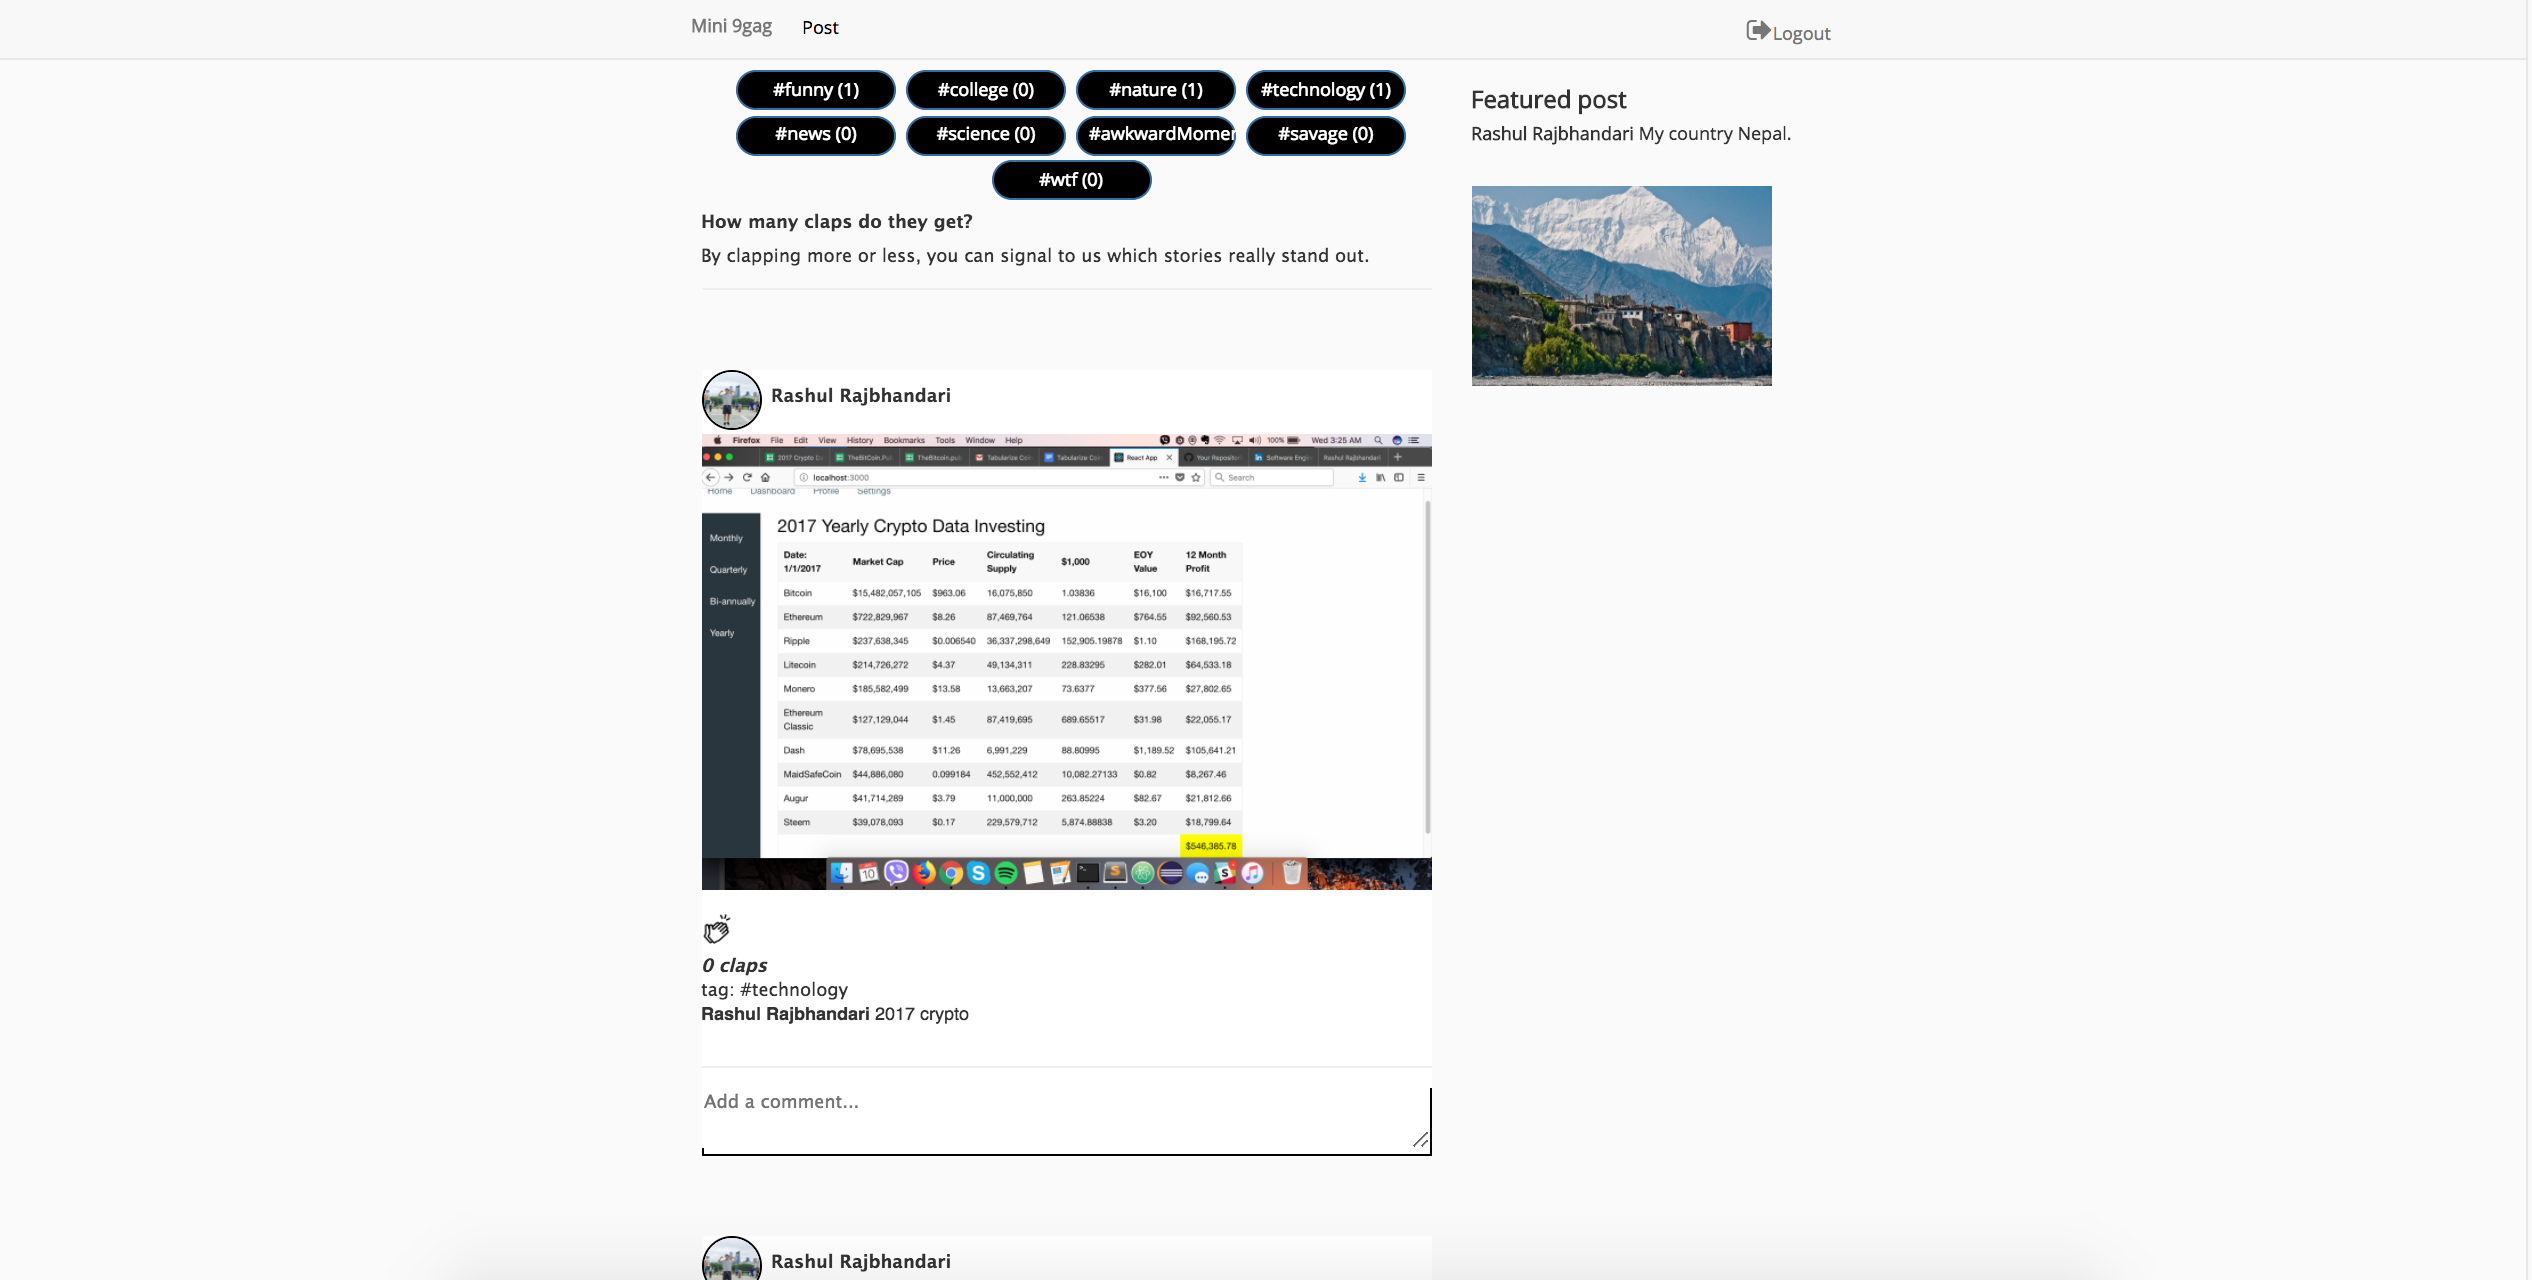
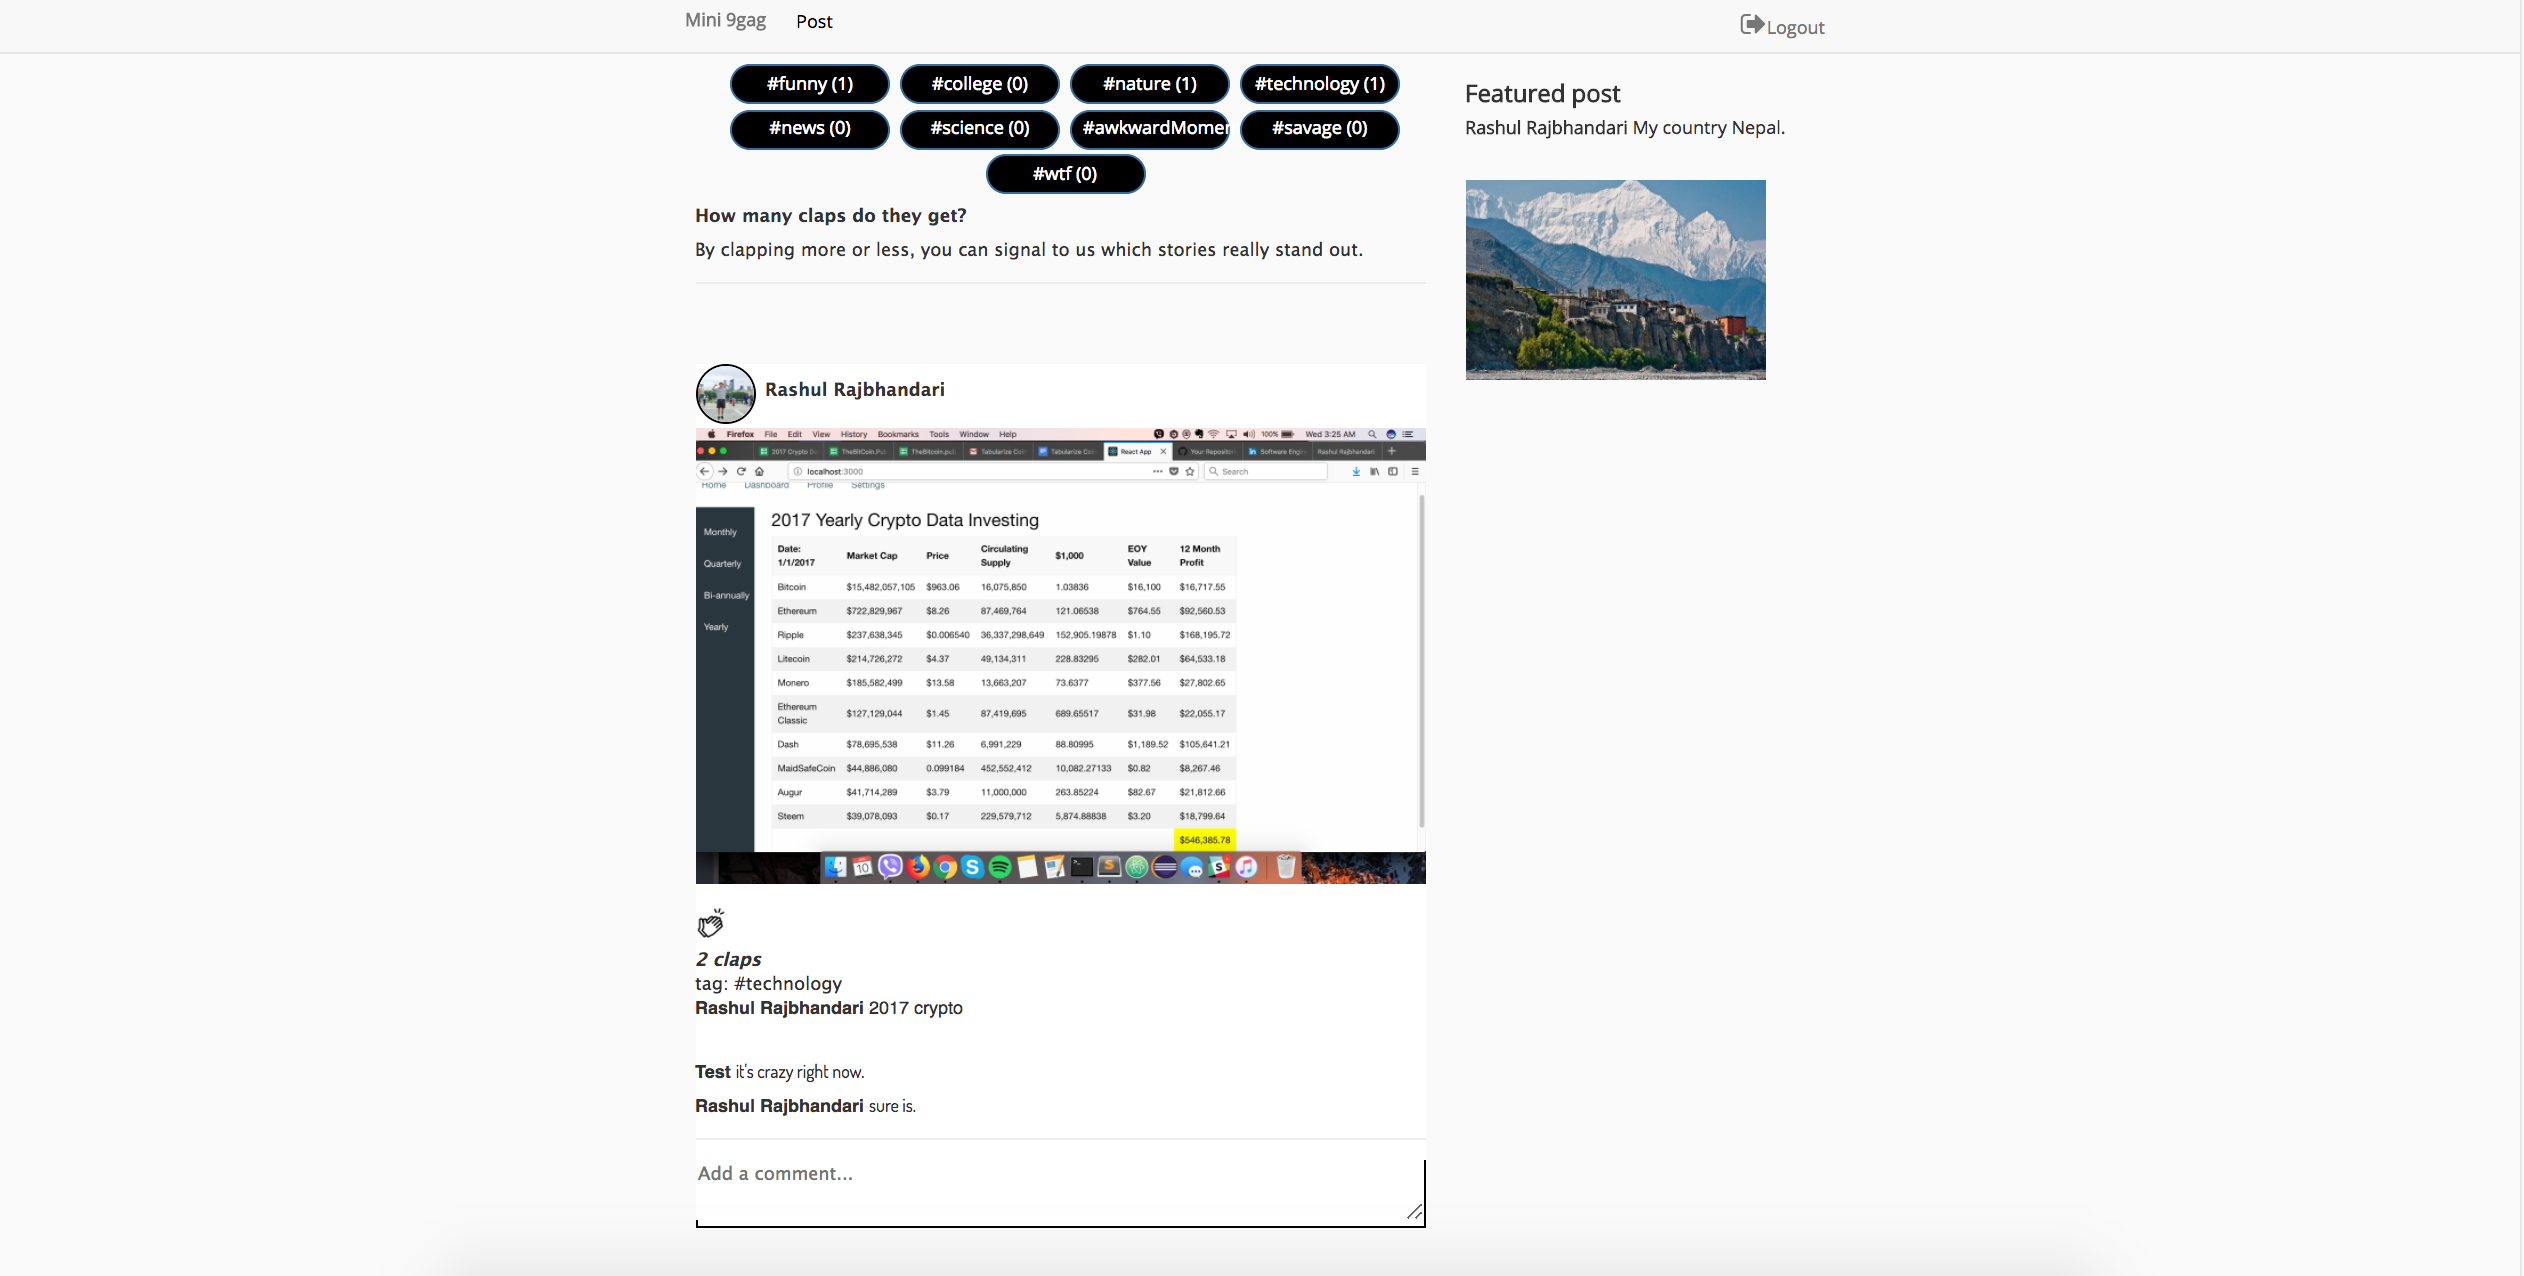
demo readme

diff --git a/instagram-clone/src/components/ClapCount.jsx b/instagram-clone/src/components/ClapCount.jsx
@@ -20,7 +20,7 @@ class ClapCount extends Component{
   increaseLoveCount(){
 
     if(this.state.clapButtonDisabled === true){
-      this.setState({clapError:'You can\'t like your own post' });
+      this.setState({clapError:'You can\'t clap at your own post' });
       return;
     }
 

diff --git a/instagram-clone/README.md b/instagram-clone/README.md
@@ -14,7 +14,18 @@
 Demo:
 
 <p>1. Let's sign up by google</p>
-<img src ="./screenshots/signup.png" width="300" height="300"/>
+<img src ="./screenshots/signup.png" width="100%" height="100%"/>
 
 <p> 2. Let's checkout the homepage </p>
-<img src ='/screenshots/home.png' width="300" height="300" />
+<img src ='/screenshots/home.png' width="100%" height="100%" />
+
+<p> 3. Let's try to post an image </p>
+<img src ='/screenshots/post.png' width="100%" height="100%" />
+
+<p> 4. Let's try to change the featured post by clapping my own picture. </p>
+<img src ='/screenshots/likeown.png' width="100%" height="100%" />
+<p> oppps </p>
+
+
+<p> 5. Comments </p>
+<img src ='/screenshots/comments.png' width="100%" height="100%" />
